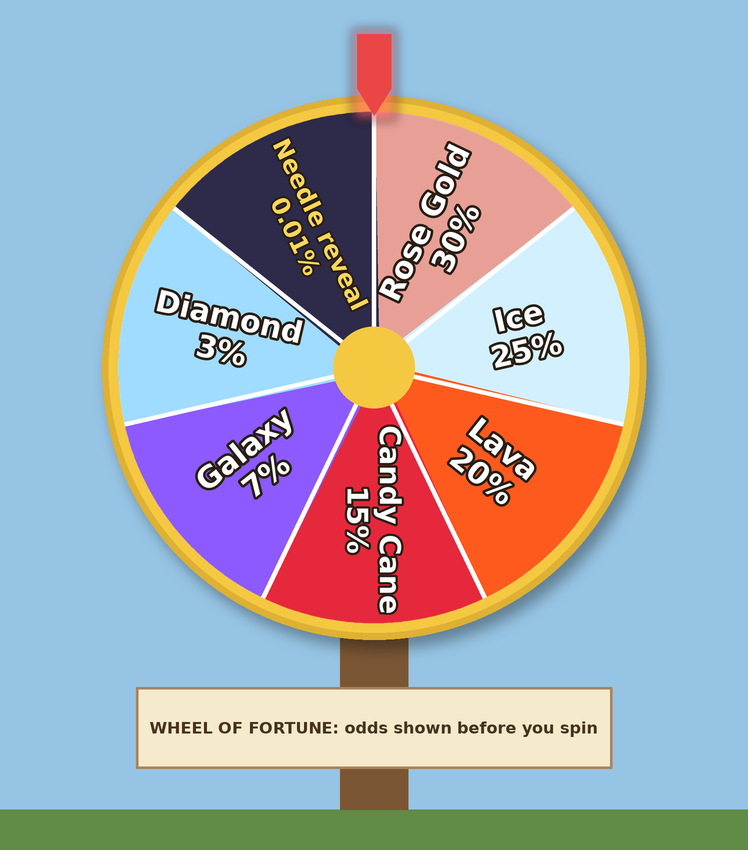
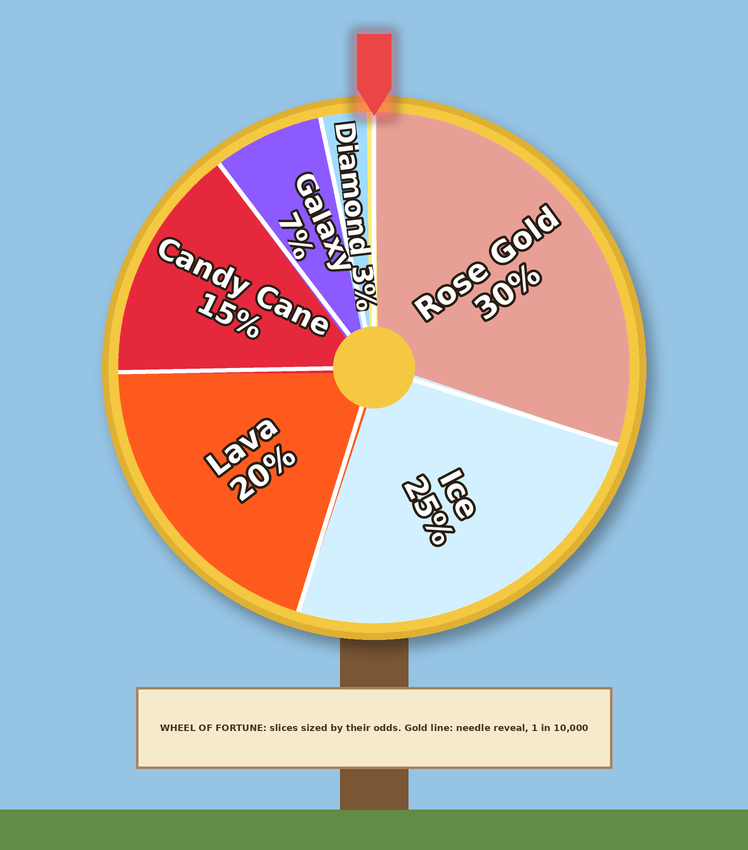
Size the wheel's slices by their odds
The needle reveal shows as a thin gold line named on the sign; spins stop inside the
winning slice.

Claude-Session: https://claude.ai/code/session_01Pc99SnYik9QUxnGfKmqEUa

Changed region(s): [[0.1537, 0.1224, 0.861, 0.7341], [0.2152, 0.8259, 0.7995, 0.8871]]

diff --git a/dev/test_rules.py b/dev/test_rules.py
@@ -101,6 +101,17 @@ class Pile(unittest.TestCase):
 
 
 class Wheel(unittest.TestCase):
+    def test_slices_are_sized_by_their_odds(self):
+        """Mirrors Economy.wheelSlice: share of the face by weight, the smallest kept visible."""
+        prizes, least = pacing.rows("Wheel"), pacing.number("WheelMinSlice")
+        total = sum(p["weight"] for p in prizes)
+        small = [p["weight"] for p in prizes if p["weight"] / total < least]
+        spare = 1 - least * len(small)
+        sizes = [least if p["weight"] / total < least else p["weight"] / (total - sum(small)) * spare for p in prizes]
+        self.assertAlmostEqual(sum(sizes), 1)
+        for p, size in zip(prizes, sizes):
+            self.assertLess(abs(size - p["weight"] / total), 0.005, p["name"])
+
     def test_every_spin_wins_and_the_reveal_is_one_in_ten_thousand(self):
         prizes = pacing.rows("Wheel")
         total = sum(p["weight"] for p in prizes)

diff --git a/NOTES.md b/NOTES.md
@@ -535,3 +535,8 @@ past 8, behind 14}, `LobbyPortalCooldown` 2, `LobbyFade` {0.35, 0.3, 0.9}, `Lobb
   between them, a gold hub, and each prize's name and odds along its slice, never upside down.
   The needle reveal's slice is dark navy with gold text. Prize positions are unchanged, so spins
   still stop on the prize they won.
+- Slices are now sized by their odds (Economy.wheelSlice, mirrored in test_rules): Rose Gold 30%
+  of the face down to Diamond 3%. The 1-in-10,000 needle reveal is a bright gold line kept at
+  Config.WheelMinSlice = 0.004 of a turn (so it can be seen at all; still far thinner than any
+  skin), named on the sign under the wheel. The spin stops at a random point inside the winning
+  slice (the middle 60%).
